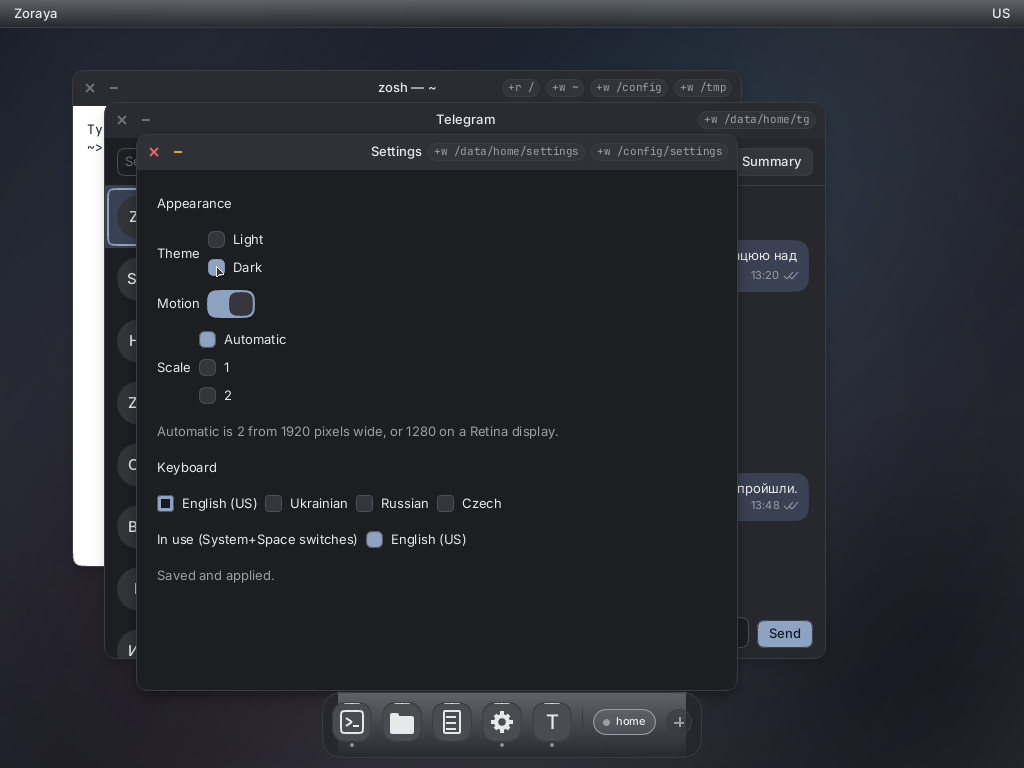
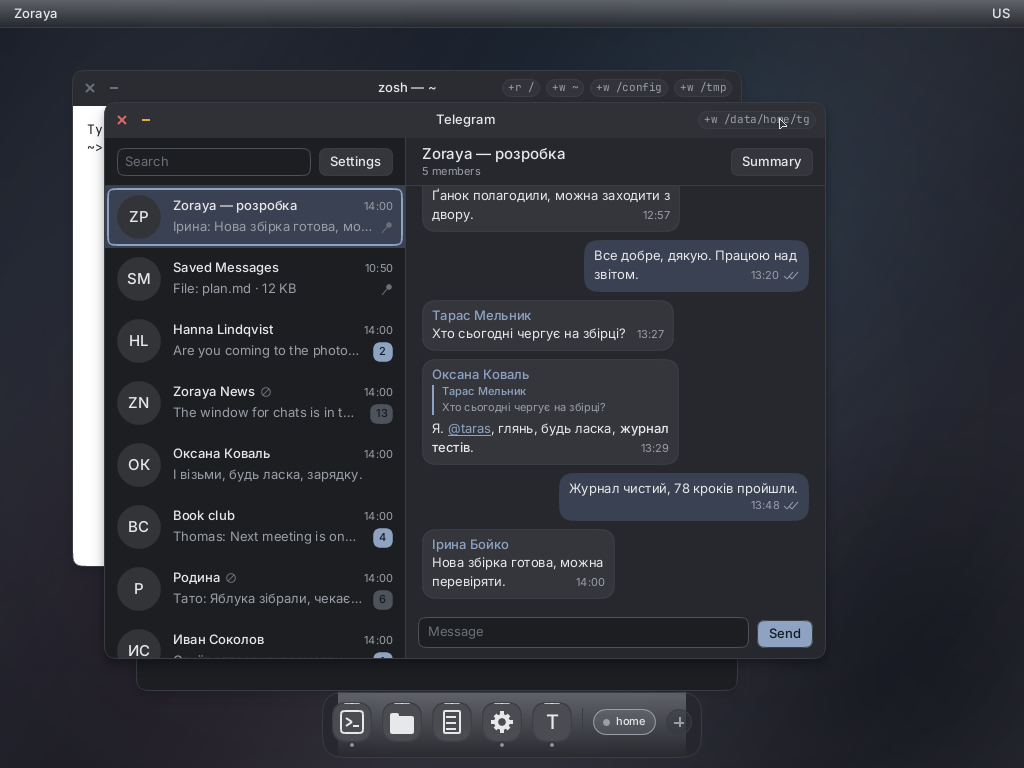
TG-04 stage A done: make test-tg-window passes at scale 1 and 2, each twice (95 steps); screens; the report with the measurements (a frame while scrolling 1.9 ms and 6.5 ms; 4.2 MiB in top); make measure-tg-memory

diff --git a/docs/tg-window-report.md b/docs/tg-window-report.md
@@ -4,9 +4,9 @@
 
 | | |
 |---|---|
-| **Result** | **Stage A: MEMORY-AND-SECOND-RUNS-PENDING.** The window `tg` with its built-in sample backend runs inside Zoraya from the dock; the design and the protocol are in `docs/tg-window.md`. |
+| **Result** | **Stage A is done.** The window `tg` with its built-in sample backend runs inside Zoraya from the dock; the design and the protocol are in `docs/tg-window.md`. |
 | What works | The chat list (initials, name, last line, time, unread count, pinned, muted) as a window of the backend's rows, scrolled by the wheel and the keys; the chat view (bubbles in and out, replies, forwards, edited, dates, links, bold and code, service lines; photos, stickers, voice and files as labelled placeholders), anchored at the newest message, older pages loaded on the way up; the composer (several lines, Enter sends, Shift+Enter a line, replies); search; the AI summary card with three scopes, its text arriving in parts; the login (phone, code, a password drawn as dots); settings and log out; light and dark; scale 1 and 2; one pane in a narrow window; every control by Tab and keys; selection of whole messages and copy (System+C); paste (System+V). New messages, confirmations and read marks come from the sample's timers as the protocol's diffs. |
-| Tests | `make test-tg-host`: 30 host tests (the model over the sample backend, the list's diffs over 600 random steps, the widgets through `zoraya-ui`'s window at both scales in both themes). `make test-tg-window`: `tests/tg-window.script`, 96 steps under HVF through Zoraya's GUI test runner, at scale 1 and at scale 2. |
+| Tests | `make test-tg-host`: 30 host tests (the model over the sample backend, the list's diffs over 600 random steps, the widgets through `zoraya-ui`'s window at both scales in both themes). `make test-tg-window`: `tests/tg-window.script`, 95 steps under HVF through Zoraya's GUI test runner, at scale 1 and at scale 2: **PASS**, each scale twice. |
 | Screens | `docs/shots/tg-*.png` (scale 1, 1024 × 768) and `tg-*@2x.png` (scale 2, 2048 × 1536); synthetic data only. |
 | Zoraya | `origin/main` at `3292aa28`, as the local clone `../zoraya-tgw` with no remote; two overlay patches (16 changed lines). Nothing of this is in the public repository. |
 | Requests | `docs/requests.md`: R20, R21, R22 new. |
@@ -65,11 +65,33 @@ serial line (`tg`'s own words) and by pixels:
 | The window resizes | its right edge dragged: `tg: size 720 520` |
 | Also | the login with a refusal and the hidden password; older pages (`tg: older 40, 80 loaded, more`); the summary from the keyboard (`running`, `done`); settings' switch off and on |
 
-Runs: SEE-RUNS.
+Runs (2026-11-15, the M1 Air, QEMU under HVF, `--mem 512M`): scale 1 **PASS** twice and scale 2 **PASS** twice (95
+steps; the first pass of each scale was 94 steps, before the step that brings `tg` in front of the settings window
+for the dark screen was added). The first passes of scale 1's last check and of scale 2 ran while another task's
+guest was running on the machine (my mistake: the run was not gated on a free machine); the second passes ran alone.
+The very first run stopped at the resize (the drag began 2 pixels outside the frame) and the next at the dark check
+(it looked at a pixel under the settings window); both were the script's.
 
 ## Measurements
 
-MEASUREMENTS.
+| | Scale 1 (840 × 520) | Scale 2 (1680 × 1040 pixels) |
+|---|---|---|
+| A frame while scrolling a long chat with the wheel (the whole window painted: 80 to 153 messages loaded, about a dozen bubbles in view), mean of 50 | 1.9 ms (1.86 to 1.92 over eight reports in two runs) | 6.5 ms (6.3 to 7.0; 8.3 in the run that shared the machine) |
+| The longest such frame | 2.1 to 4.4 ms | 7.3 ms in one batch of 50, 16.9 ms in the other |
+| A frame of the login and the chat list (the first 50 frames of a run) | 0.8 ms mean | 3.0 ms mean |
+| The first frame after a new tree with 153 messages (all laid out again) | up to 11 ms | up to 19 ms (in the run that shared the machine) |
+
+A frame is `tg`'s own paint of its whole tree (from the root's paint to after the last widget's), measured in the
+program with the monotonic clock and said on the serial line every 50 frames (`tg: paint 50 frames: mean … us,
+longest … us`); the commit and the compositor's composition are not in it. The program is built as Zoraya's user
+programs are (`opt-level = 1`).
+
+**Memory**: **4 313 K** (4.2 MiB) in `top`, for `tg` alone in a room with a 96 MiB limit, at scale 1, logged in to
+the sample, with the long chat's 153 messages loaded and laid out (`make measure-tg-memory`,
+`tests/tg-memory.script`; the screen is `docs/shots/tg-memory-top.png`). That holds its 1.7 MB window buffer, the
+fonts' glyph caches and the whole sample account. Measured once.
+
+Sizes: `tg` 1 380 KiB; Zoraya's ramdisk with it 29.7 MB, the kernel image 38.5 MB.
 
 ## Known limits
 

diff --git a/docs/status.md b/docs/status.md
@@ -4,8 +4,9 @@
 and running inside Zoraya from the dock (`make tg-image`, `make run-tg`); the design is `docs/tg-window.md`, the
 report `docs/tg-window-report.md`.
 
-In progress: `make test-tg-window` (the GUI script under HVF at scale 1 and 2, run twice), the screens in
-`docs/shots/`, and the measurements (memory in `top`, frame time while scrolling).
+`make test-tg-window` passes under HVF at scale 1 and at scale 2, each twice (95 steps); the screens are in
+`docs/shots/`; a frame while scrolling takes 1.9 ms at scale 1 and 6.5 ms at scale 2, and `tg` holds 4.2 MiB in
+`top`. **Stage A is done.**
 
 Zoraya's source for this task is the local clone `../zoraya-tgw` (no remote), at `overlay/BASE` with `overlay/*.patch`.
 
